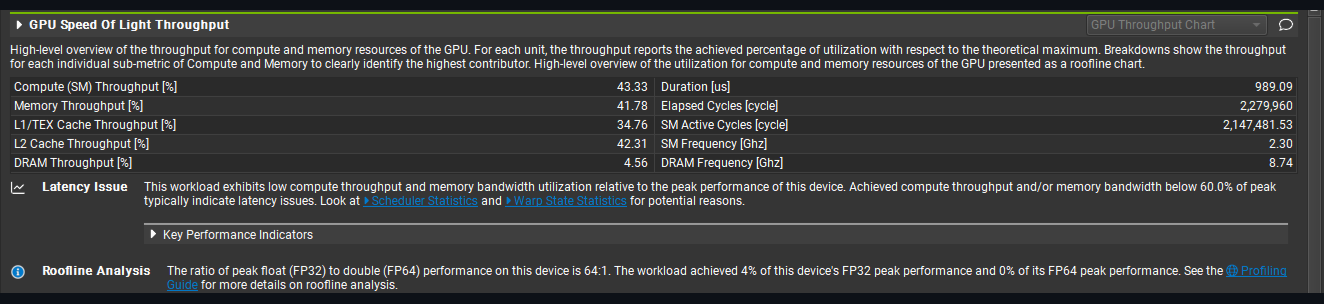
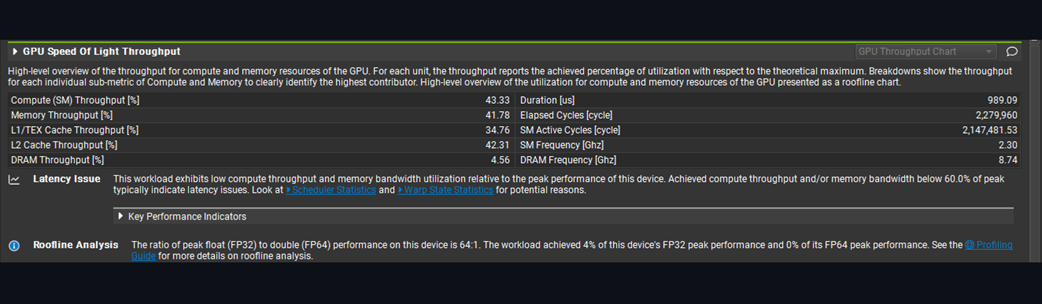
Replace cropped NCU comparison captures

diff --git a/README.md b/README.md
@@ -103,10 +103,10 @@ Actual Nsight Compute GUI captures:
 
 | Section | Before | After |
 |---|---|---|
-| GPU Speed of Light | <img src="docs/profiling/gpu_speed_of_light.png" width="420" height="122" alt="before GPU Speed of Light"> | <img src="docs/profiling/ncu_compare/after_gpu_sol.png" width="420" height="122" alt="after GPU Speed of Light"> |
-| Roofline | <img src="docs/profiling/roofline_fp32.png" width="420" height="185" alt="before roofline"> | <img src="docs/profiling/ncu_compare/after_roofline.png" width="420" height="185" alt="after roofline"> |
-| Memory Workload | <img src="docs/profiling/memory_workload.png" width="420" height="189" alt="before memory workload"> | <img src="docs/profiling/ncu_compare/after_memory_workload.png" width="420" height="189" alt="after memory workload"> |
-| Occupancy | <img src="docs/profiling/occupancy.png" width="420" height="81" alt="before occupancy"> | <img src="docs/profiling/ncu_compare/after_occupancy.png" width="420" height="81" alt="after occupancy"> |
+| GPU Speed of Light | <img src="docs/profiling/gpu_speed_of_light.png" width="420" alt="before GPU Speed of Light"> | <img src="docs/profiling/ncu_compare/after_gpu_sol.png" width="420" alt="after GPU Speed of Light"> |
+| Roofline | <img src="docs/profiling/roofline_fp32.png" width="420" alt="before roofline"> | <img src="docs/profiling/ncu_compare/after_roofline.png" width="420" alt="after roofline"> |
+| Memory Workload | <img src="docs/profiling/memory_workload.png" width="420" alt="before memory workload"> | <img src="docs/profiling/ncu_compare/after_memory_workload.png" width="420" alt="after memory workload"> |
+| Occupancy | <img src="docs/profiling/occupancy.png" width="420" alt="before occupancy"> | <img src="docs/profiling/ncu_compare/after_occupancy.png" width="420" alt="after occupancy"> |
 
 The full `.ncu-rep` files and text exports are kept under `docs/profiling/ncu/`
 and `docs/profiling/ncu_sections/`.